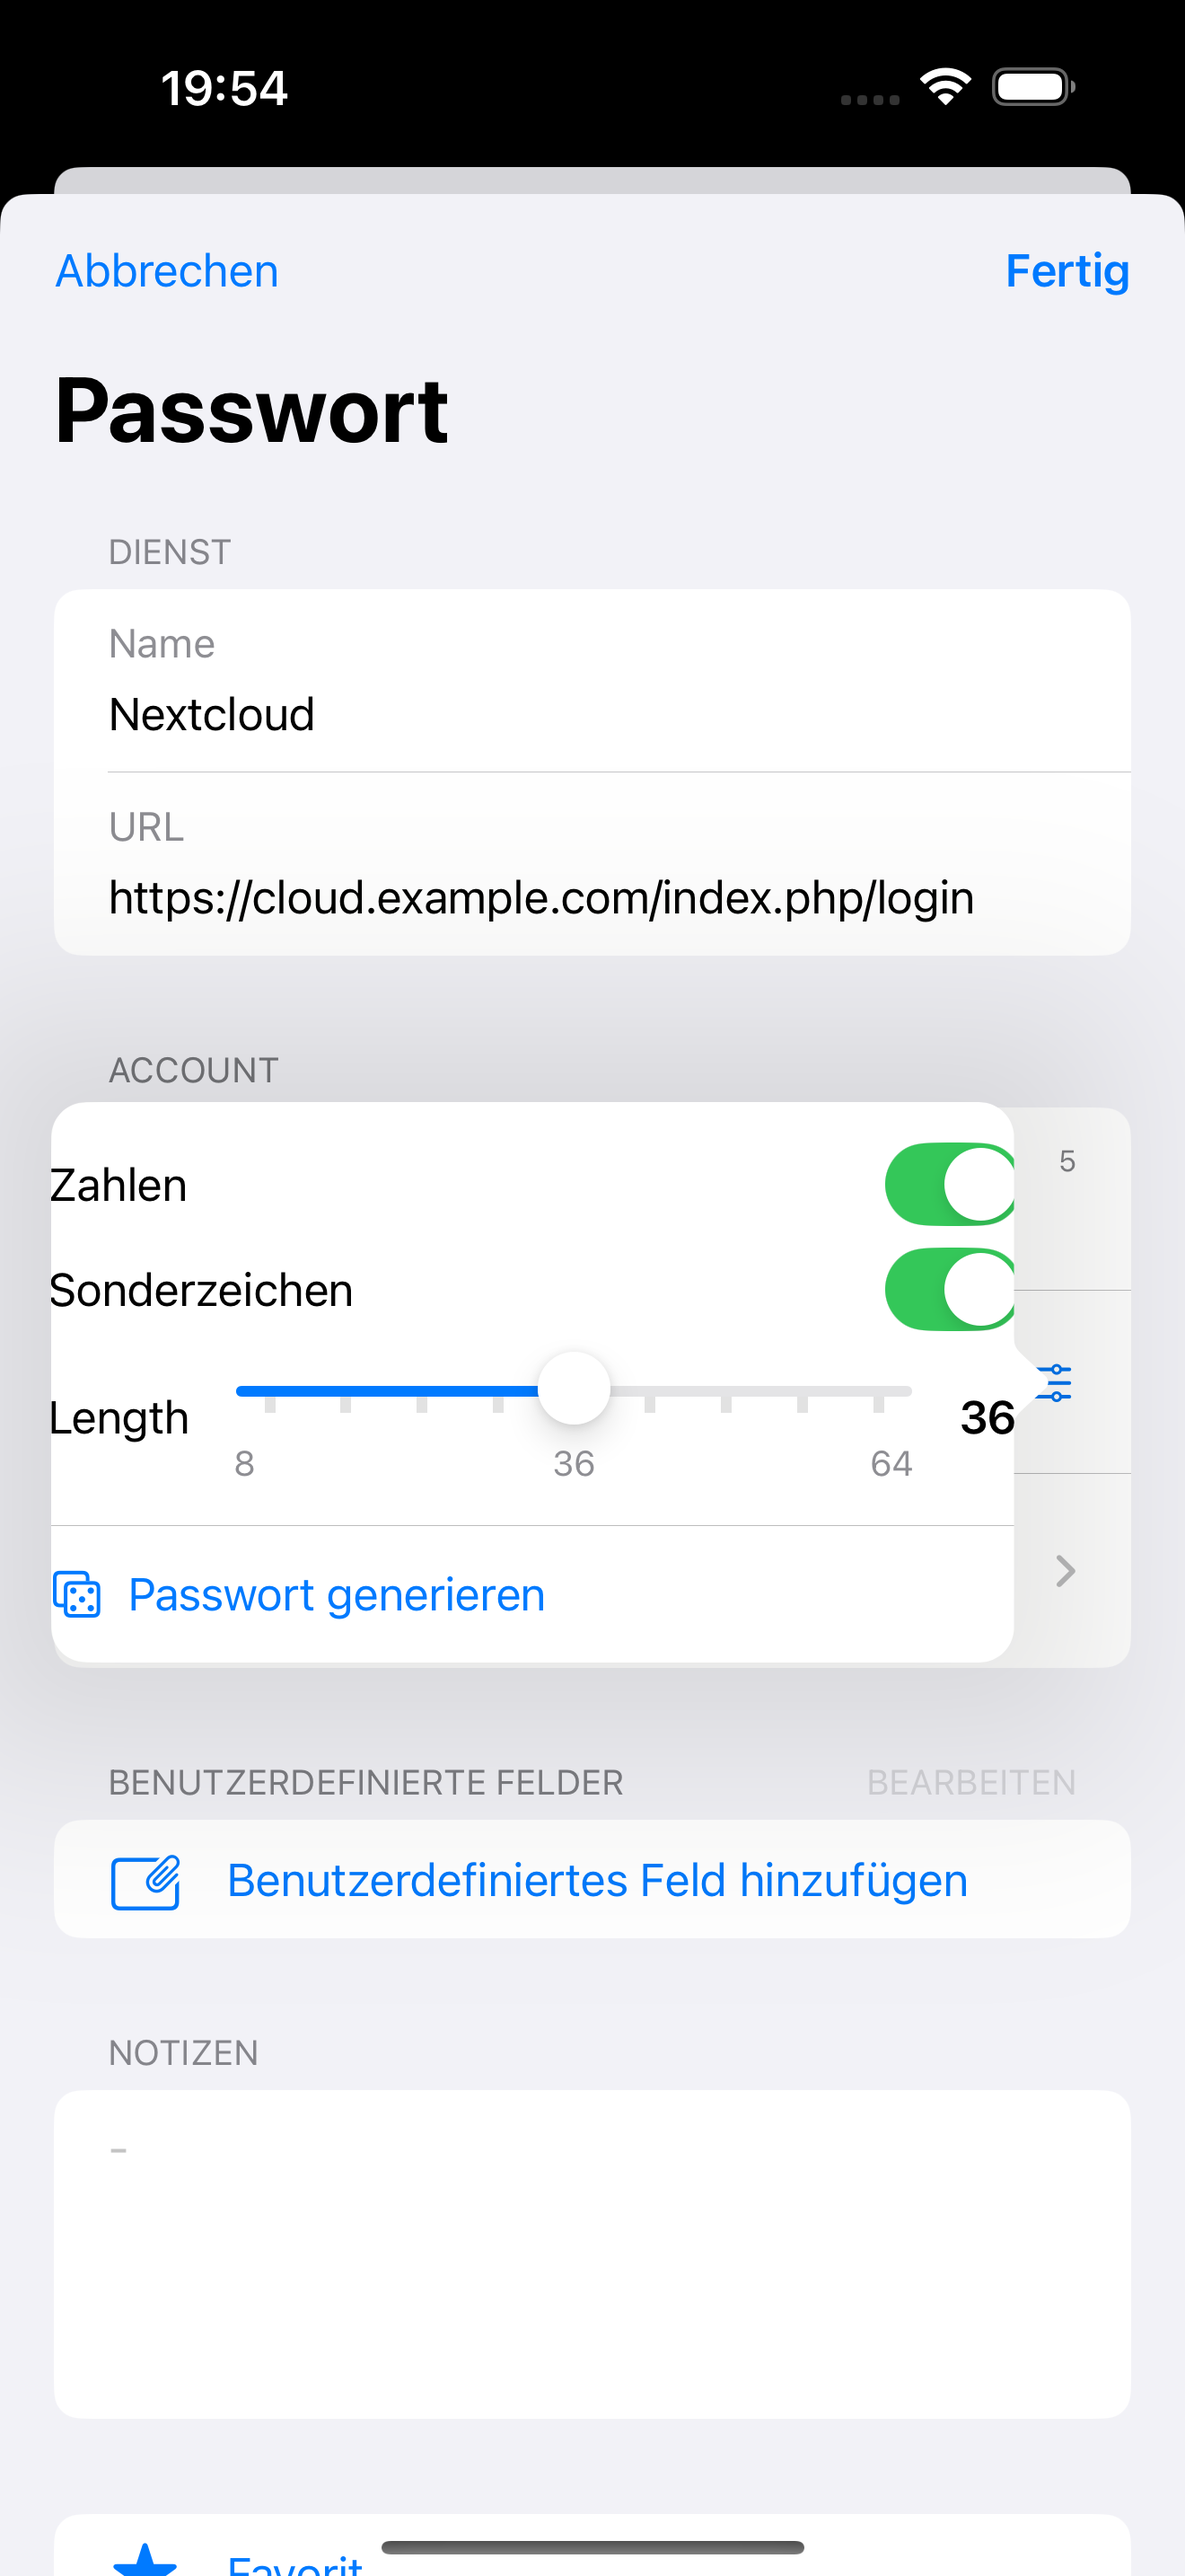
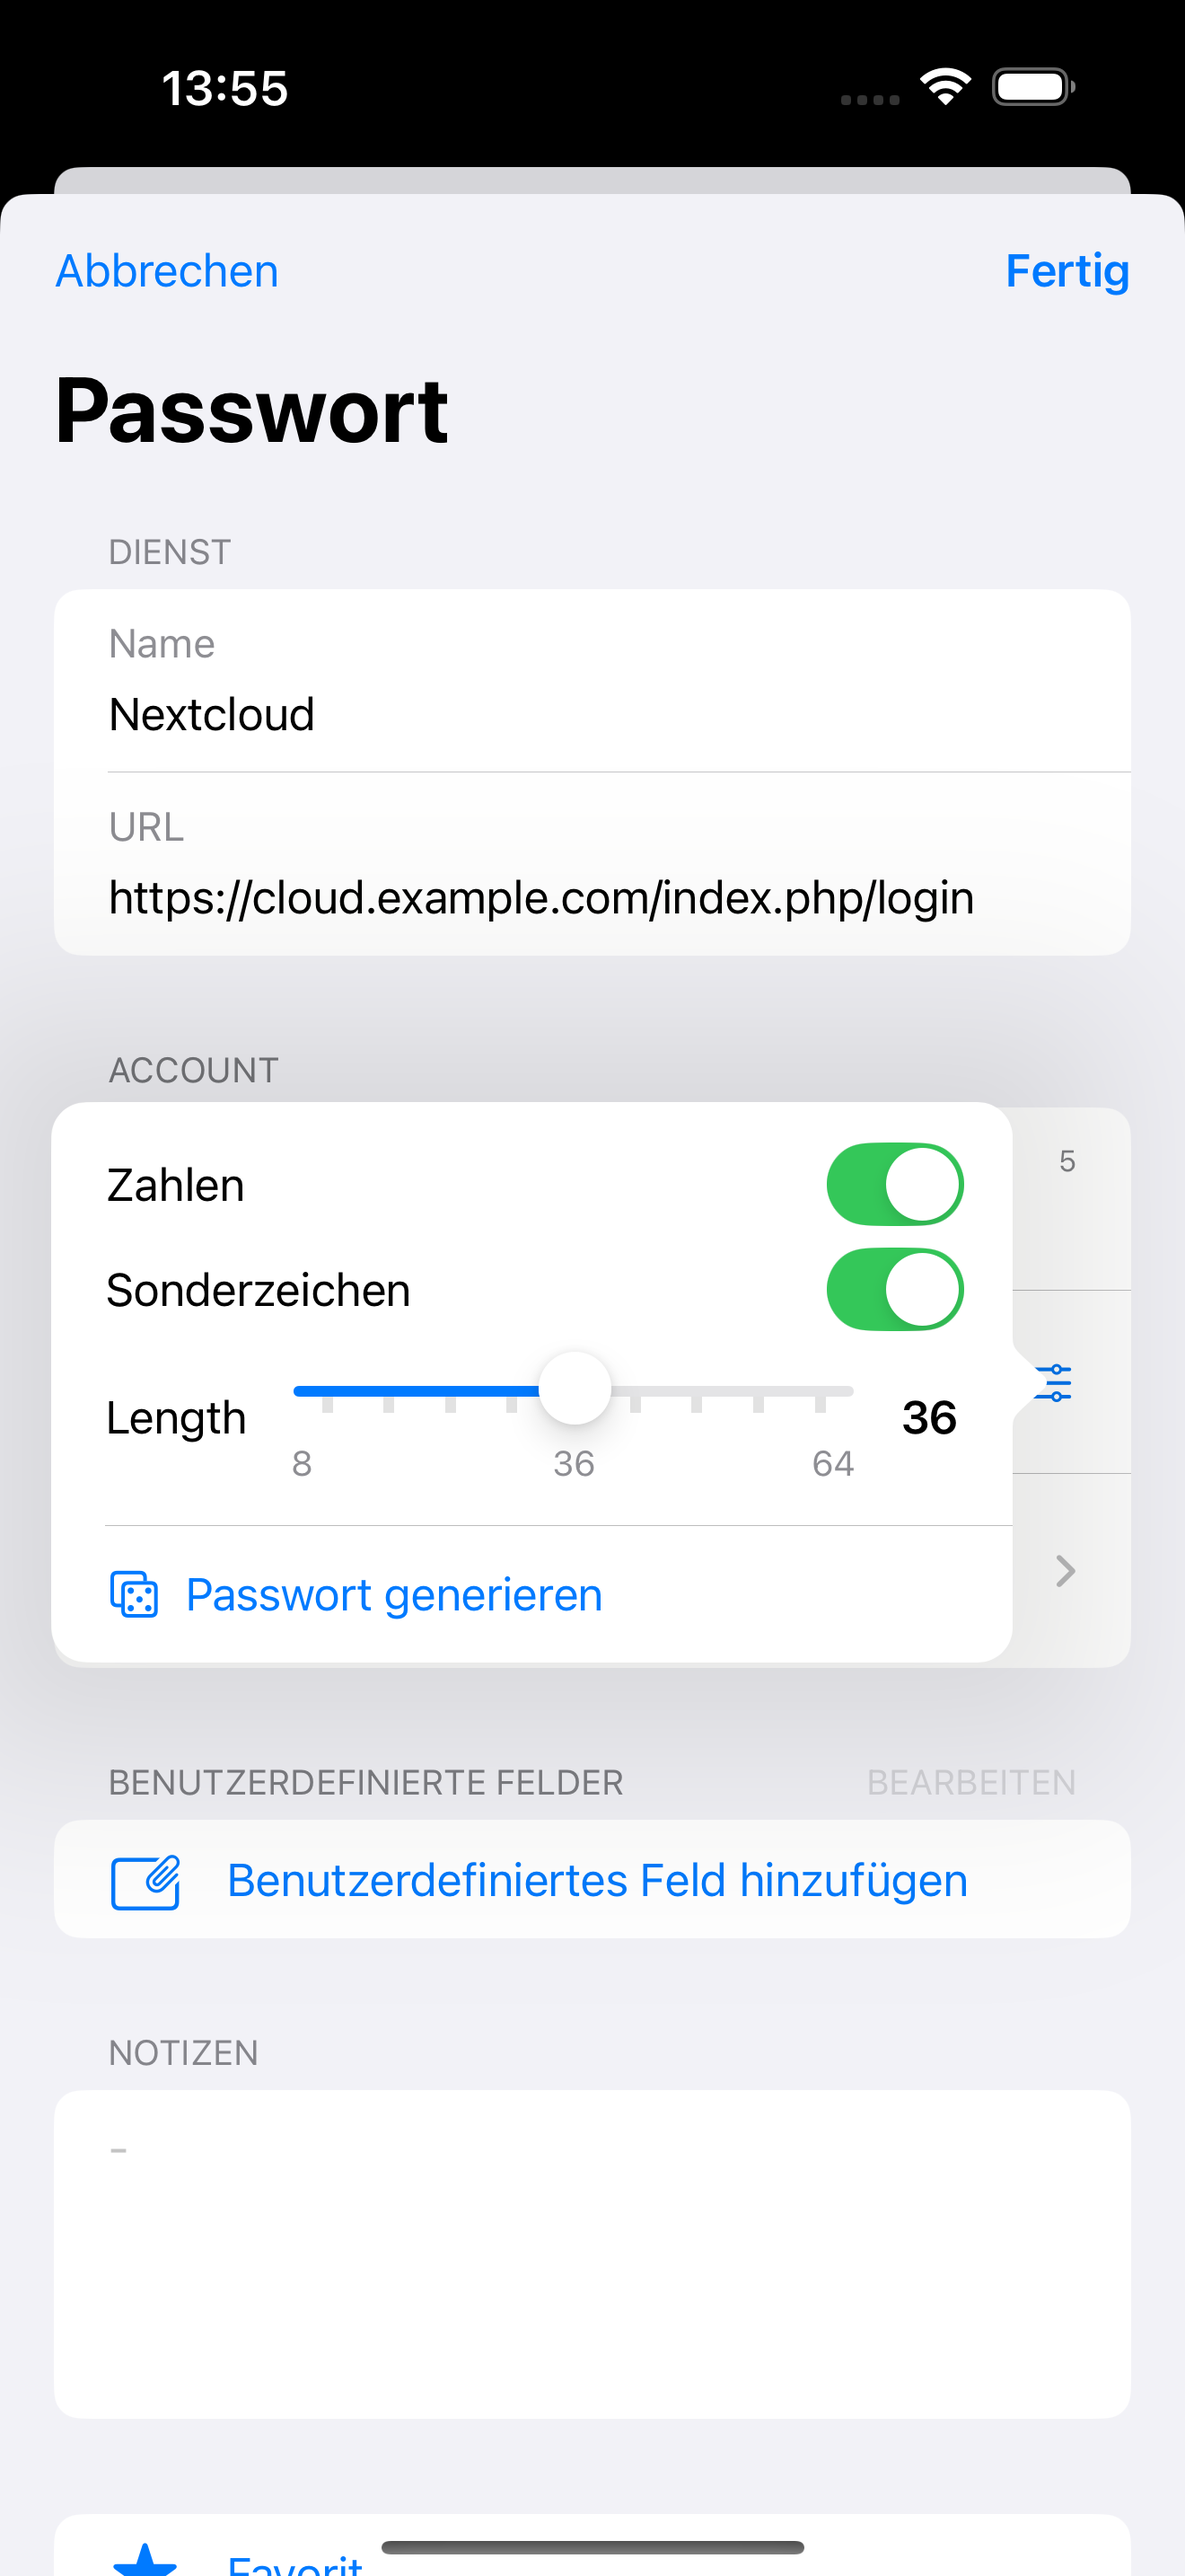
Fix edge case when calculating width of tooltip

diff --git a/Shared/Views/Components/Tooltip.swift b/Shared/Views/Components/Tooltip.swift
@@ -6,6 +6,8 @@ private enum TooltipConstants {
     static let maxSize = CGSize(width: 400, height: 400)
     static let padding = EdgeInsets(top: 15, leading: 20, bottom: 15, trailing: 20)
     static let safeArea = EdgeInsets(top: 8, leading: 0, bottom: 8, trailing: 0)
+    static let minimumHorizontalSpacing = 19.0
+    static let horizontalArrowWidth = 45.0
 }
 
 
@@ -38,10 +40,21 @@ private enum TooltipConstants {
                 .frame(maxHeight: TooltipConstants.maxSize.height)
                 .apply { view in
                     if let windowWidth = windowSizeService.windowSize?.width {
-                        let maxWidthAvailableToTooltip = windowWidth - 19 * 2
+                        let maxWidth = TooltipConstants.maxSize.width
+                        let maxWidthAvailable = windowWidth - TooltipConstants.minimumHorizontalSpacing * 2
+                        let maxWidthAvailableWithoutArrow = maxWidthAvailable - TooltipConstants.horizontalArrowWidth
+                        
+                        let (contentWidth, forcedWidth) = if maxWidthAvailable < maxWidth {
+                            (maxWidthAvailable, 10000.0)
+                        } else if maxWidthAvailableWithoutArrow < maxWidth {
+                            (maxWidthAvailableWithoutArrow, maxWidthAvailableWithoutArrow)
+                        } else {
+                            (maxWidth, maxWidth)
+                        }
+                        
                         view
-                            .frame(width: min(TooltipConstants.maxSize.width, maxWidthAvailableToTooltip)) // Force popover content to the maximum possible width
-                            .frame(width: TooltipConstants.maxSize.width < maxWidthAvailableToTooltip ? TooltipConstants.maxSize.width : 10000) // Force arrow to the top or bottom when popover uses the window's full width
+                            .frame(width: contentWidth) // Force popover content to the maximum possible width
+                            .frame(width: forcedWidth) // Force arrow to the top or bottom when popover uses the window's full width
                     }
                 }
                 .background(Color(.tertiarySystemBackground))
